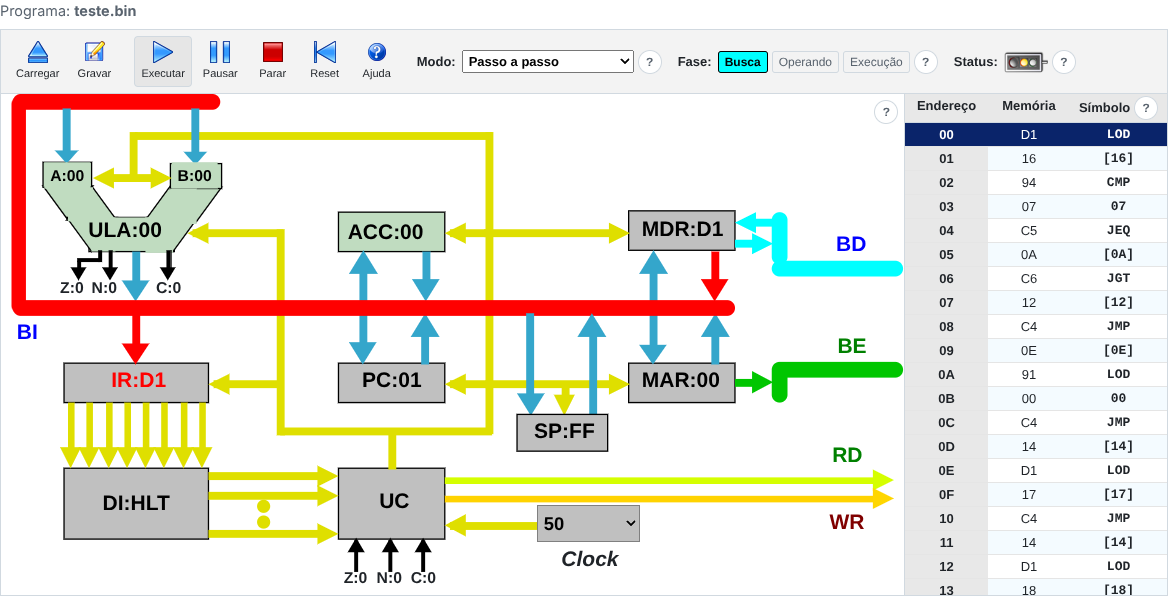
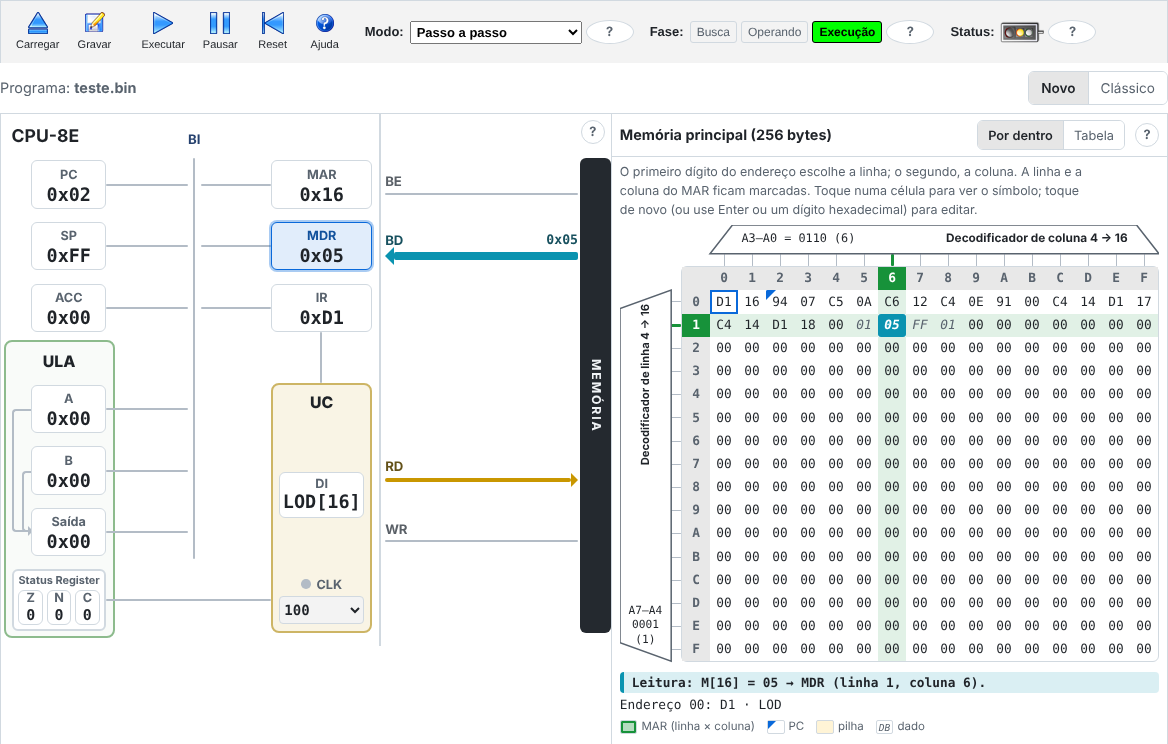
docs: revisão final da 2.0.0 (#23)
Claude-Session: https://claude.ai/code/session_01Re99g685Ub4n3M144wC4rp

diff --git a/src/docs/pt/diferencas.md b/src/docs/pt/diferencas.md
@@ -1,6 +1,8 @@
 # Diferenças do original
 
-A versão 1.0 reproduziu o simulador CPU-8E v2.2.3 (IESB, 2010) com **fidelidade total**: a mesma aritmética, a mesma sequência de micro-operações e os mesmos comportamentos dos botões, inclusive os defeitos conhecidos. A **versão 1.1** corrige esses defeitos. Todo o resto continua igual ao original, e isso é conferido por testes automáticos que comparam esta versão, pulso a pulso, com o código Pascal original, ao qual foram aplicadas as mesmas correções.
+A versão 1.0 reproduziu o simulador CPU-8E v2.2.3 (IESB, 2010) com **fidelidade total**: a mesma aritmética, a mesma sequência de micro-operações e os mesmos comportamentos dos botões, inclusive os defeitos conhecidos. A **versão 1.1** corrigiu esses defeitos; até ela, testes automáticos comparavam esta versão, pulso a pulso, com o código Pascal original, ao qual foram aplicadas as mesmas correções.
+
+A **série 2.x** muda a tela, não a CPU: as instruções, os pulsos de clock e as flags são os mesmos da 1.1. Desde a 2.0, cada instrução é conferida por testes que comparam a memória, os registradores e as flags antes e depois dela.
 
 ## Corrigido na versão 1.1 {#corrigido}
 
@@ -21,6 +23,14 @@ A versão 1.0 reproduziu o simulador CPU-8E v2.2.3 (IESB, 2010) com **fidelidade
 
 A tag `v1.0.0` do [repositório do projeto](https://github.com/tropical-yetti/cpu-8e-web) guarda a versão com o comportamento original.
 
+## Novidades da série 2.x {#serie-2}
+
+- **Painel novo**, com os fios coloridos por barramento e setas para onde o dado vai, as siglas explicadas por legendas e o bloco da ULA com as entradas ligadas à saída e o Status Register. O desenho original continua no visual **Clássico**.
+- **Memória por dentro**: a grade de 16 × 16 com os decodificadores de linha e de coluna, acompanhando o MAR. A tabela do original continua no seletor **Tabela**.
+- Os registradores mostram o valor em hexadecimal, decimal ou binário; no original, só em binário, enquanto o registrador ficava pressionado.
+- Um **guia de primeiro acesso** e botões **?** com balões que explicam cada parte da tela.
+- Numa escrita, o valor novo aparece na memória já no pulso do WR, e não só no pulso seguinte.
+
 ## Diferenças por causa da plataforma {#plataforma}
 
 Algumas coisas não têm como funcionar igual num navegador:
@@ -32,7 +42,6 @@ Algumas coisas não têm como funcionar igual num navegador:
 - Apertar **Executar** durante uma execução contínua não faz nada. No original, isso iniciava uma segunda execução dentro da primeira e embaralhava o estado da CPU.
 - A interface também está em inglês, com as dicas do painel traduzidas e as siglas do desenho em inglês (ALU, CU, ID, IB, DB, AB).
 - No visual clássico, no celular, o diagrama rola para os lados quando a tela é estreita.
-- Desde a 2.0, o painel padrão tem um visual novo, com siglas explicadas por legendas; o desenho original continua no visual **Clássico**.
 
 Se você encontrar outra diferença em relação ao original, ela é um erro desta versão; [avise no repositório do projeto](https://github.com/tropical-yetti/cpu-8e-web).
 

diff --git a/src/docs/en/diferencas.md b/src/docs/en/diferencas.md
@@ -1,6 +1,8 @@
 # Differences from the original
 
-Version 1.0 reproduced the CPU-8E simulator v2.2.3 (IESB, 2010) with **full fidelity**: the same arithmetic, the same sequence of micro-operations and the same button behavior, including the known defects. **Version 1.1** fixes those defects. Everything else still matches the original, and this is checked by automated tests that compare this version, pulse by pulse, with the original Pascal code with the same fixes applied.
+Version 1.0 reproduced the CPU-8E simulator v2.2.3 (IESB, 2010) with **full fidelity**: the same arithmetic, the same sequence of micro-operations and the same button behavior, including the known defects. **Version 1.1** fixed those defects; up to it, automated tests compared this version, pulse by pulse, with the original Pascal code with the same fixes applied.
+
+The **2.x series** changes the screen, not the CPU: the instructions, the clock pulses and the flags are the same as in 1.1. Since 2.0, each instruction is checked by tests that compare the memory, the registers and the flags before and after it.
 
 ## Fixed in version 1.1 {#corrigido}
 
@@ -21,6 +23,14 @@ Version 1.0 reproduced the CPU-8E simulator v2.2.3 (IESB, 2010) with **full fide
 
 The `v1.0.0` tag in the [project repository](https://github.com/tropical-yetti/cpu-8e-web) keeps the version with the original behavior.
 
+## What's new in the 2.x series {#serie-2}
+
+- **New panel**, with wires colored by bus and arrows showing where the data goes, abbreviations explained by captions and the ALU block with its inputs connected to the output and the Status Register. The original drawing is still there in the **Classic** look.
+- **Inside the memory**: the 16 × 16 grid with the row and column decoders, following the MAR. The original table is still there in the **Table** selector.
+- Registers show their value in hexadecimal, decimal or binary; in the original, only in binary, while the register was held down.
+- A **first-visit guide** and **?** buttons with balloons that explain each part of the screen.
+- On a write, the new value shows up in memory on the WR pulse itself, not only on the next pulse.
+
 ## Differences due to the platform {#plataforma}
 
 Some things cannot work the same way in a browser:
@@ -32,7 +42,6 @@ Some things cannot work the same way in a browser:
 - Pressing **Go** during a Full Run does nothing. In the original, it started a second run inside the first one and scrambled the CPU state.
 - The interface is also available in English, with the panel tips translated and the diagram abbreviations in English (ALU, CU, ID, IB, DB, AB).
 - In the classic look, on a phone, the diagram scrolls sideways when the screen is narrow.
-- Since 2.0, the default panel has a new look, with abbreviations explained by captions; the original drawing is still there in the **Classic** look.
 
 If you find any other difference from the original, it is a bug in this version; [report it in the project repository](https://github.com/tropical-yetti/cpu-8e-web).
 

diff --git a/README.md b/README.md
@@ -19,9 +19,11 @@ que abre a memória e mostra o que acontece dentro dela.
 ## O que dá para fazer
 
 - **Carregar um programa** do seu aparelho ou um dos que acompanham o simulador original, e **gravá-lo** de volta.
-- **Executar pulso a pulso, instrução por instrução ou direto**, vendo os registradores e os barramentos acenderem a cada pulso de clock.
-- **Ver o ciclo de instrução** nas lâmpadas de fase (busca, operando, execução) e o valor de cada registrador em binário.
-- **Editar a memória** pela tabela, com o mouse ou o teclado, e ver o disassembly, os dados e a pilha.
+- **Executar pulso a pulso, instrução por instrução ou direto**, vendo os registradores se realçarem e os fios acenderem a cada pulso de clock, com uma seta para onde o dado vai.
+- **Ver o ciclo de instrução** nas lâmpadas de fase (busca, operando, execução) e o valor de cada registrador em hexadecimal, decimal ou binário.
+- **Abrir a memória por dentro**: a grade de 16 × 16, com os decodificadores de linha e de coluna acompanhando o MAR, e a célula acessada acesa a cada leitura e escrita. A tabela do original continua a um clique.
+- **Editar a memória**, com o mouse, o toque ou o teclado, e ver o disassembly, os dados e a pilha.
+- **Conhecer a tela com o guia** de primeiro acesso e os botões **?**, e trocar para o **visual clássico**, o desenho do simulador original.
 - **Ajustar a velocidade** do clock, do passo lento à execução sem espera.
 
 A [documentação](https://tropical-yetti.github.io/cpu-8e-web/#/documentacao),
@@ -42,8 +44,9 @@ estado de todos os registradores, e a cada parada o leitor anuncia o que mudou
 no último pulso de clock.
 
 Os testes de acessibilidade são automáticos e rodam em todo pull request: o
-[axe](https://github.com/dequelabs/axe-core), nos temas claro e escuro, e um
-teste de uso só com o teclado. Ninguém que usa leitor de tela no dia a dia
+[axe](https://github.com/dequelabs/axe-core), nos temas claro e escuro, um
+teste de uso só com o teclado e um leitor de tela simulado, que confere o que
+seria anunciado. Ninguém que usa leitor de tela no dia a dia
 testou o site ainda. Se você usa, conte como foi na
 [issue #12](https://github.com/tropical-yetti/cpu-8e-web/issues/12).
 

diff --git a/src/docs/pt/simulador.md b/src/docs/pt/simulador.md
@@ -104,7 +104,7 @@ A coluna **Símbolo** é atualizada depois de cada edição e de cada carregamen
 
 ### Pilha {#pilha}
 
-A pilha começa em `FF` e desce a cada `CAL` (veja [Sub-rotinas e pilha](#/documentacao/instrucoes)). As posições acima do SP, que guardam endereços de retorno, ficam destacadas na tabela. Se um `CAL` gravar o endereço de retorno dentro do programa, a execução pausa com uma mensagem: a pilha chegou ao código. Apertar **Executar** continua mesmo assim, como numa CPU real, que não tem essa proteção.
+A pilha começa em `FF` e desce a cada `CAL` (veja [Sub-rotinas e pilha](#/documentacao/instrucoes)). As posições acima do SP, que guardam endereços de retorno, ficam destacadas na grade e na tabela. Se um `CAL` gravar o endereço de retorno dentro do programa, a execução pausa com uma mensagem: a pilha chegou ao código. Apertar **Executar** continua mesmo assim, como numa CPU real, que não tem essa proteção.
 
 ## Idioma {#idioma}
 

diff --git a/src/docs/en/simulador.md b/src/docs/en/simulador.md
@@ -104,7 +104,7 @@ The **Symbol** column is updated after each edit and each load. To tell code fro
 
 ### Stack {#pilha}
 
-The stack starts at `FF` and grows down with each `CAL` (see [Subroutines and the stack](#/documentacao/instrucoes)). The locations above SP, which hold return addresses, are highlighted in the table. If a `CAL` writes its return address inside the program, execution pauses with a message: the stack has reached the code. Pressing **Go** continues anyway, as on a real CPU, which has no such protection.
+The stack starts at `FF` and grows down with each `CAL` (see [Subroutines and the stack](#/documentacao/instrucoes)). The locations above SP, which hold return addresses, are highlighted in the grid and in the table. If a `CAL` writes its return address inside the program, execution pauses with a message: the stack has reached the code. Pressing **Go** continues anyway, as on a real CPU, which has no such protection.
 
 ## Language {#idioma}
 

diff --git a/CHANGELOG.md b/CHANGELOG.md
@@ -8,6 +8,19 @@ O formato segue [Keep a Changelog](https://keepachangelog.com/pt-BR/1.1.0/).
 
 ## [Não lançado]
 
+### 2026-10-25 — Revisão final da 2.0.0 (#23)
+
+- README: captura nova (painel novo e memória por dentro), "O que dá para
+  fazer" com a memória por dentro, as bases, o guia e o visual clássico, e o
+  leitor de tela simulado em "Acessibilidade".
+- Imagem de compartilhamento (`og.png`) refeita com a tela da 2.0.
+- Diferenças do original: a introdução não diz mais que os testes comparam
+  com o código Pascal (isso foi até a 1.1), e a nova seção "Novidades da
+  série 2.x" lista o que mudou na tela, com a CPU igual à da 1.1.
+- NOTICE.md: resumo das modificações até a série 2.x.
+- Ajustes de texto em Simulador (pilha na grade e na tabela) e em Primeiros
+  passos ("painel", e não "diagrama").
+
 ### 2026-10-25 — Leitor de tela simulado
 
 - Testes com o leitor de tela virtual do Guidepup (#12), como no MEM-8E Web:

diff --git a/NOTICE.md b/NOTICE.md
@@ -54,8 +54,11 @@ O texto integral da licença está em [LICENSE](LICENSE).
 
 Todas as modificações, com data, estão registradas em [CHANGELOG.md](CHANGELOG.md).
 Em resumo: o simulador foi reescrito em TypeScript e Vue 3 para rodar no
-navegador. A lógica da CPU segue o código Pascal original passo a passo,
-inclusive os seus defeitos conhecidos (fidelidade total na versão 1.0).
+navegador. A lógica da CPU segue o código Pascal original passo a passo: na
+versão 1.0, inclusive os seus defeitos conhecidos (fidelidade total); a
+versão 1.1 corrigiu esses defeitos. A série 2.x mantém a CPU da 1.1 e muda a
+interface: um painel novo (o desenho original continua como visual
+clássico), a memória vista por dentro e um guia de primeiro acesso.
 
 Cada arquivo derivado diretamente de um arquivo do original traz no
 cabeçalho o nome do arquivo de origem e o aviso de copyright correspondente.

diff --git a/src/docs/pt/primeiros-passos.md b/src/docs/pt/primeiros-passos.md
@@ -37,7 +37,7 @@ Troque o **Modo** para **Execução contínua** e escolha o clock **100** (o mai
 
 ## Próximos passos
 
-- [A CPU-8E](#/documentacao/cpu) explica cada parte do diagrama.
+- [A CPU-8E](#/documentacao/cpu) explica cada parte do painel.
 - [Ciclo de instrução](#/documentacao/ciclo) detalha o que acontece em cada pulso.
 - [Escrevendo programas](#/documentacao/programas) mostra como criar seus próprios programas.
 

diff --git a/src/docs/en/primeiros-passos.md b/src/docs/en/primeiros-passos.md
@@ -37,7 +37,7 @@ Change the **Mode** to **Full Run** and pick clock **100** (the fastest). Press 
 
 ## Next steps
 
-- [The CPU-8E](#/documentacao/cpu) explains each part of the diagram.
+- [The CPU-8E](#/documentacao/cpu) explains each part of the panel.
 - [Instruction cycle](#/documentacao/ciclo) details what happens on each pulse.
 - [Writing programs](#/documentacao/programas) shows how to create your own programs.
 
